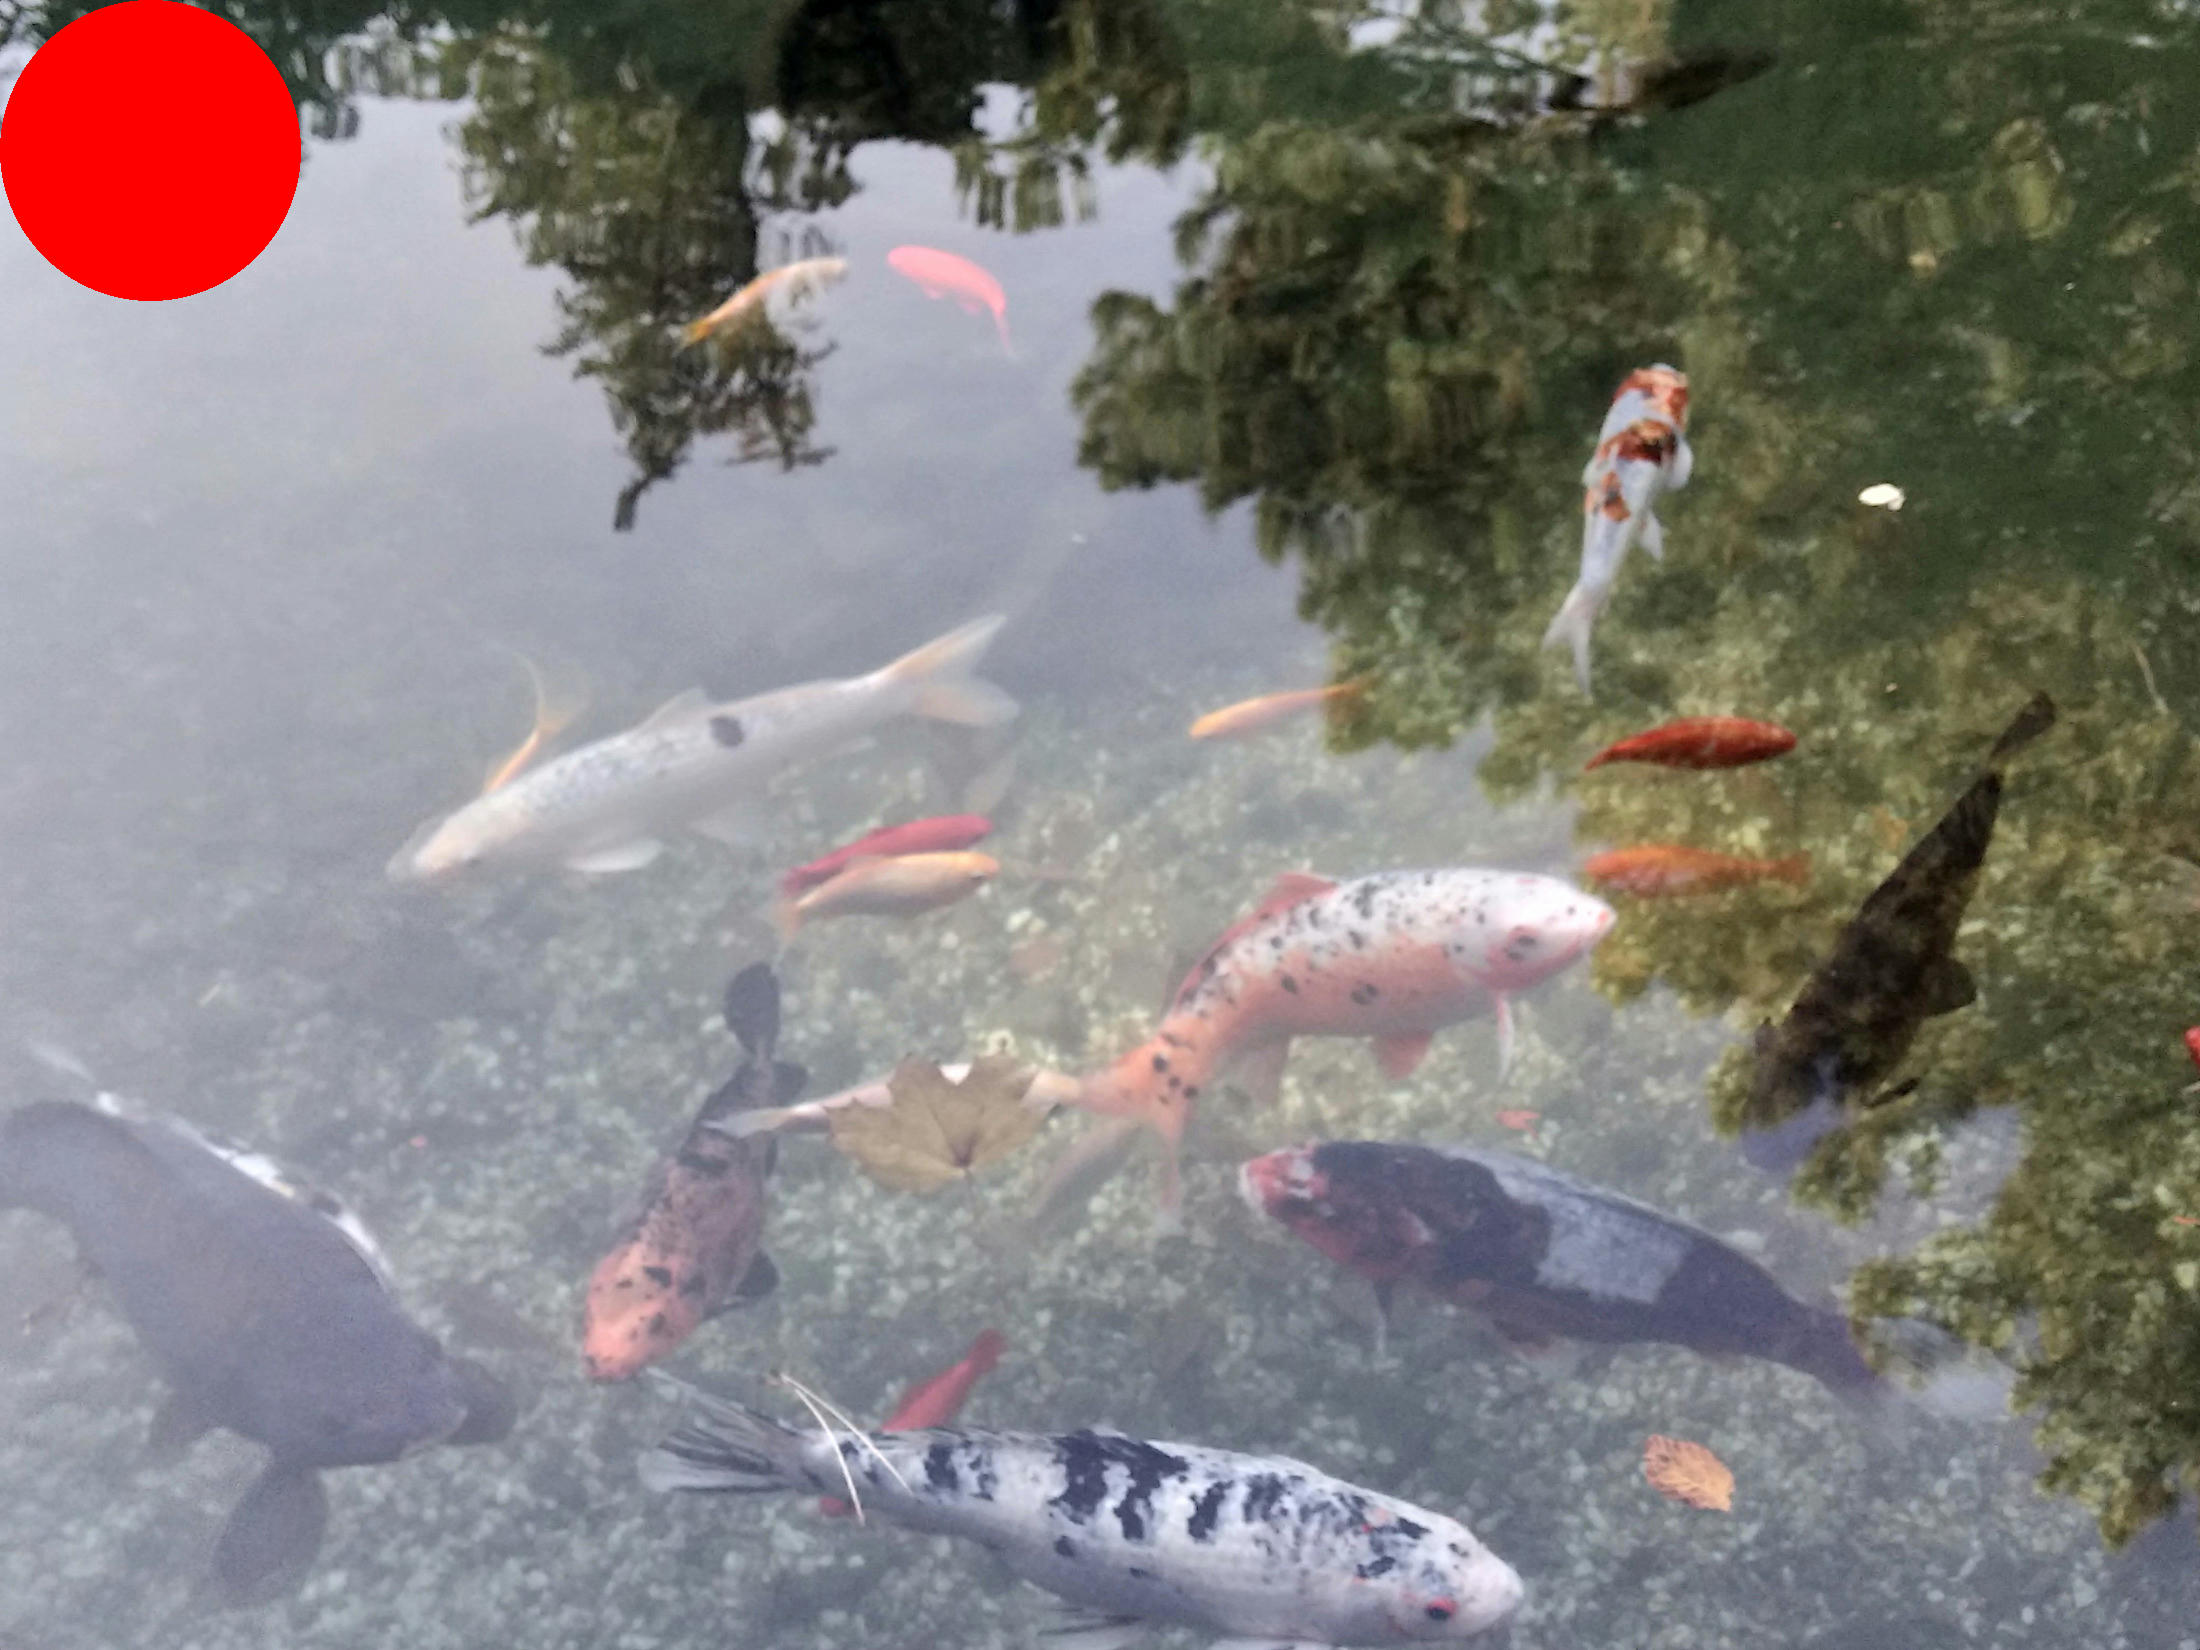
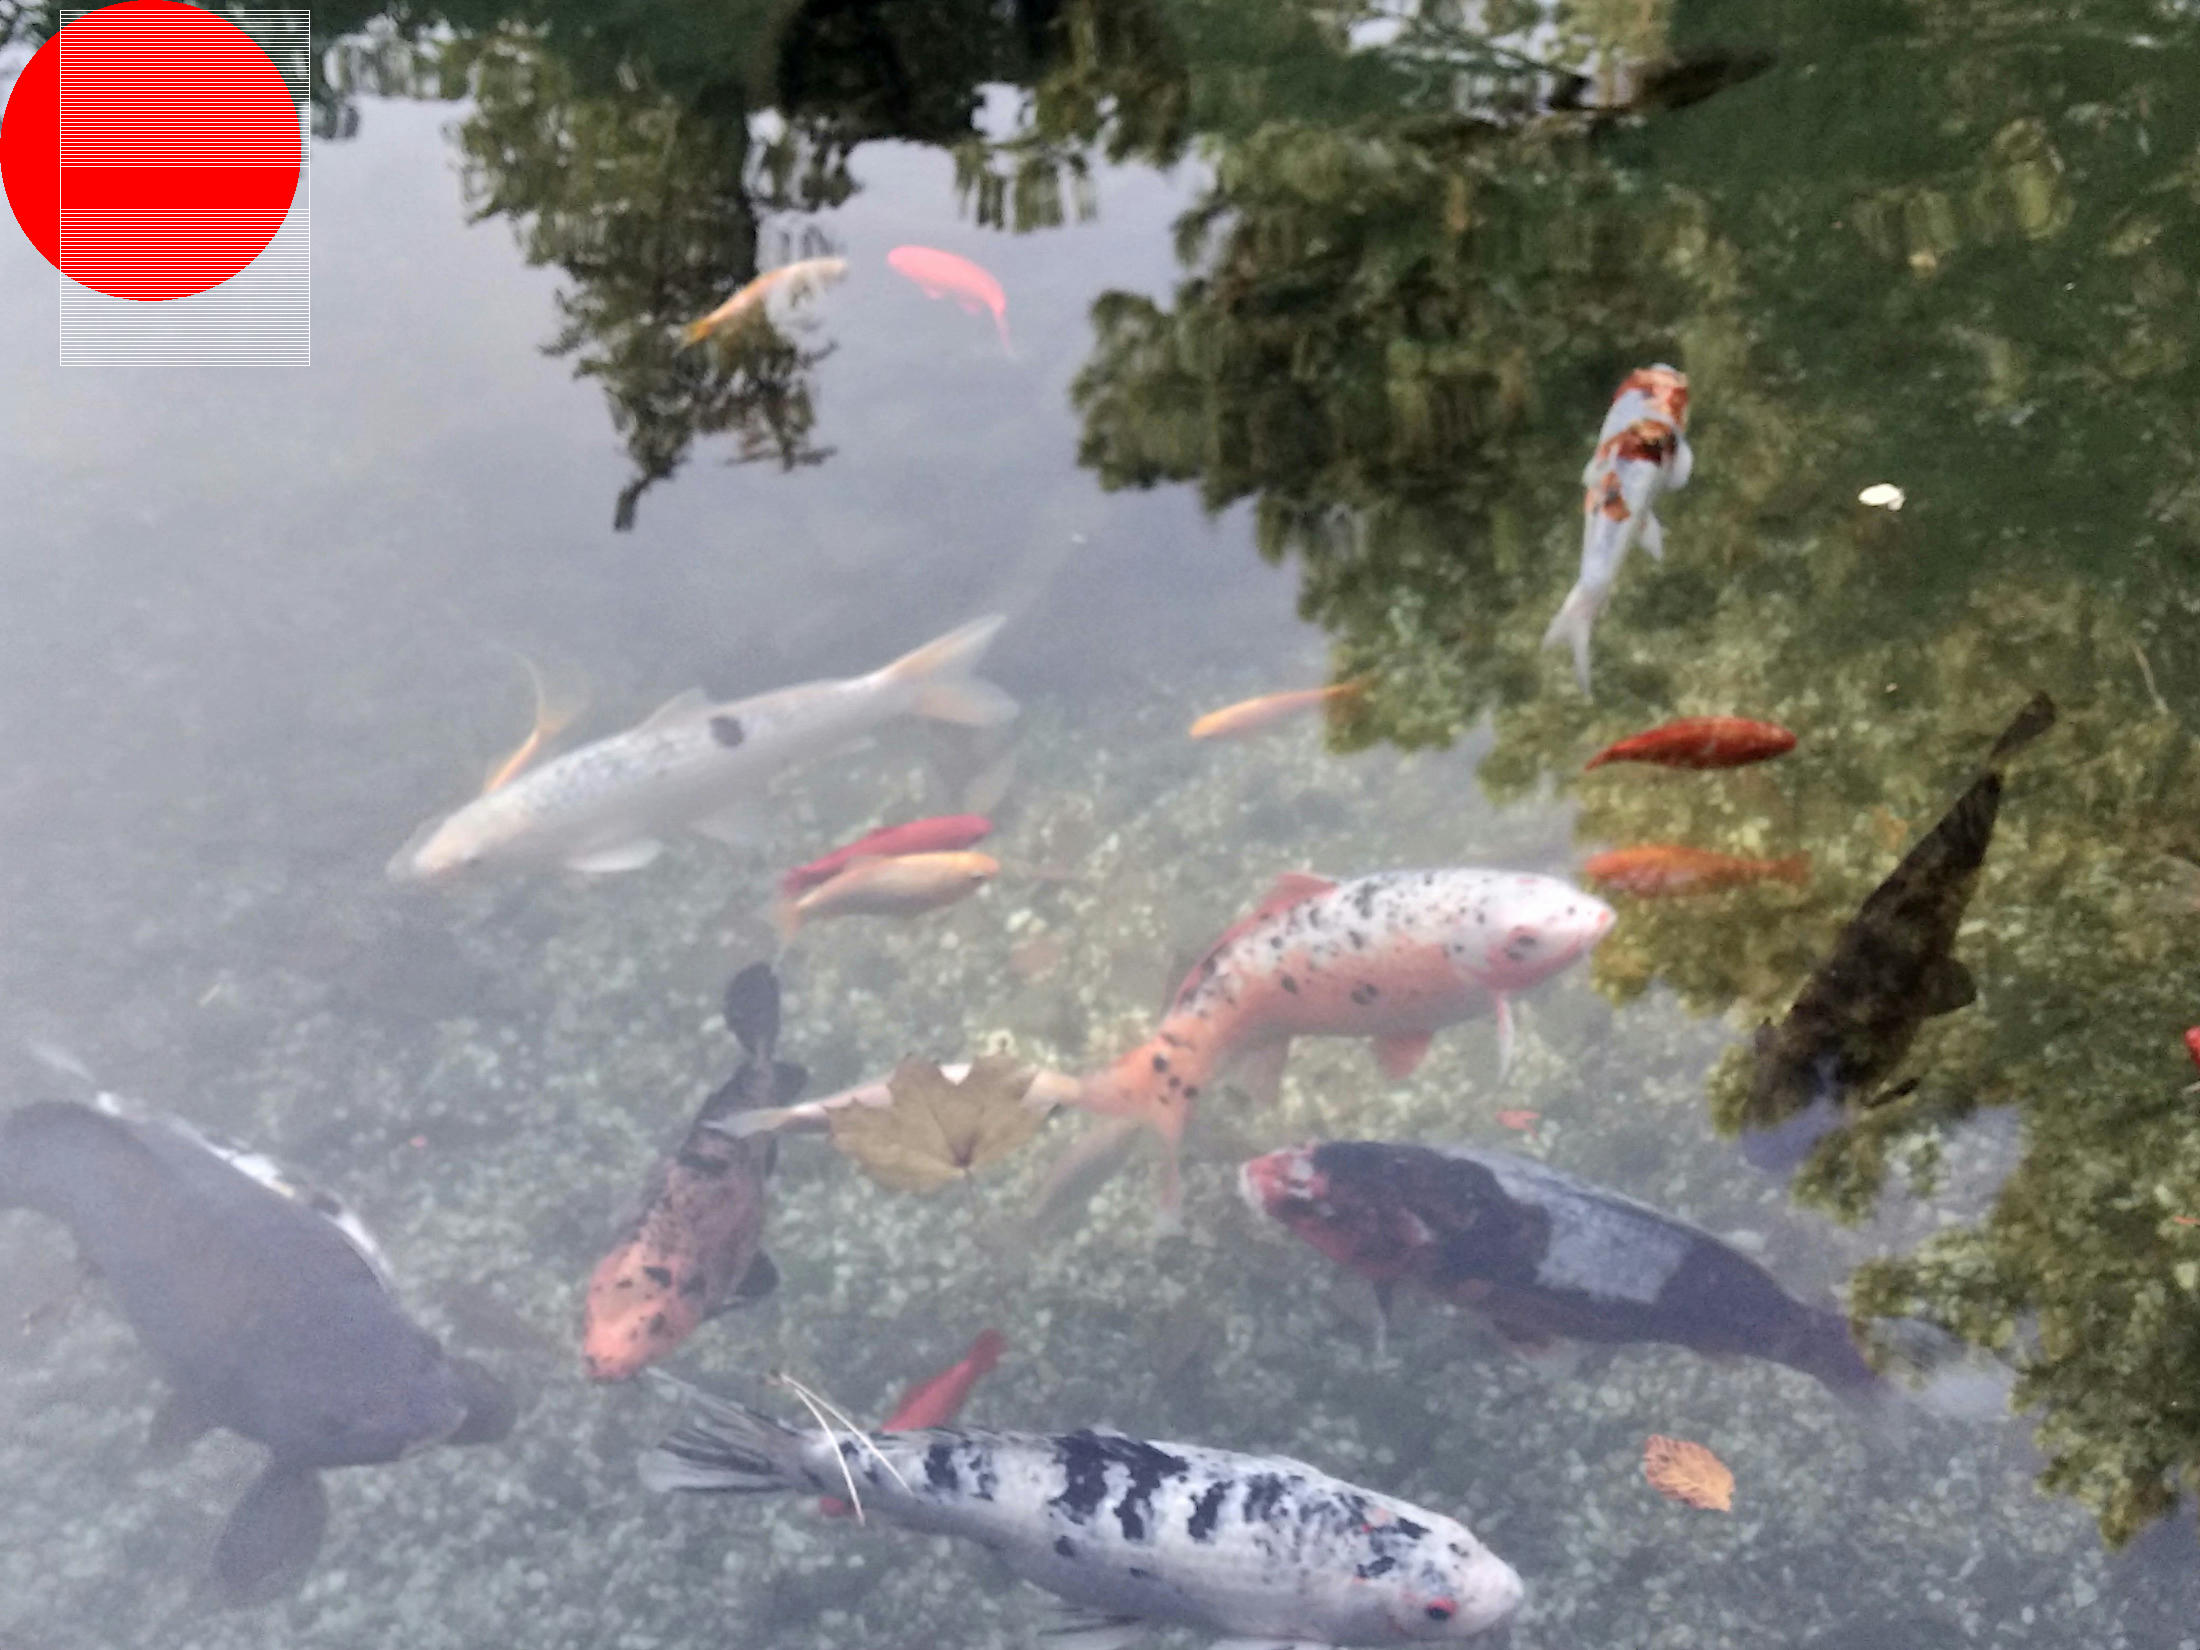
color as argument

Changed region(s): [[0.0309, 0.1236, 0.1545, 0.2164], [0.0309, 0.0, 0.1545, 0.0927]]

diff --git a/src/graphics.rs b/src/graphics.rs
@@ -5,10 +5,10 @@ use imageproc::drawing::draw_hollow_rect_mut;
 pub struct Graphics;
 
 impl Graphics {
-    pub fn draw_rects(canvas: &mut RgbImage,  num: i32) {
+    pub fn draw_rects(canvas: &mut RgbImage,  num: i32, color: Rgb<u8>) {
         let white = Rgb([255u8, 255u8, 255u8]);
         for a in 0..num {
-            draw_hollow_rect_mut(canvas, Rect::at(60, 10 + (a * 4)).of_size(250, 200), white);
+            draw_hollow_rect_mut(canvas, Rect::at(60, 10 + (a * 4)).of_size(250, 200), color);
         }
     }
 }

diff --git a/src/main.rs b/src/main.rs
@@ -22,7 +22,7 @@ fn main() {
     draw_filled_circle_mut(&mut img, (150, 150), 150, red);
     draw_hollow_rect_mut(&mut img, Rect::at(60, 10).of_size(250, 200), white);
 
-    Graphics::draw_rects(&mut img, 40);
+    Graphics::draw_rects(&mut img, 40, white);
     println!("Circle drawn!");
     img.save("imgs/visual_poetry.jpg");
     println!("Image saved");
